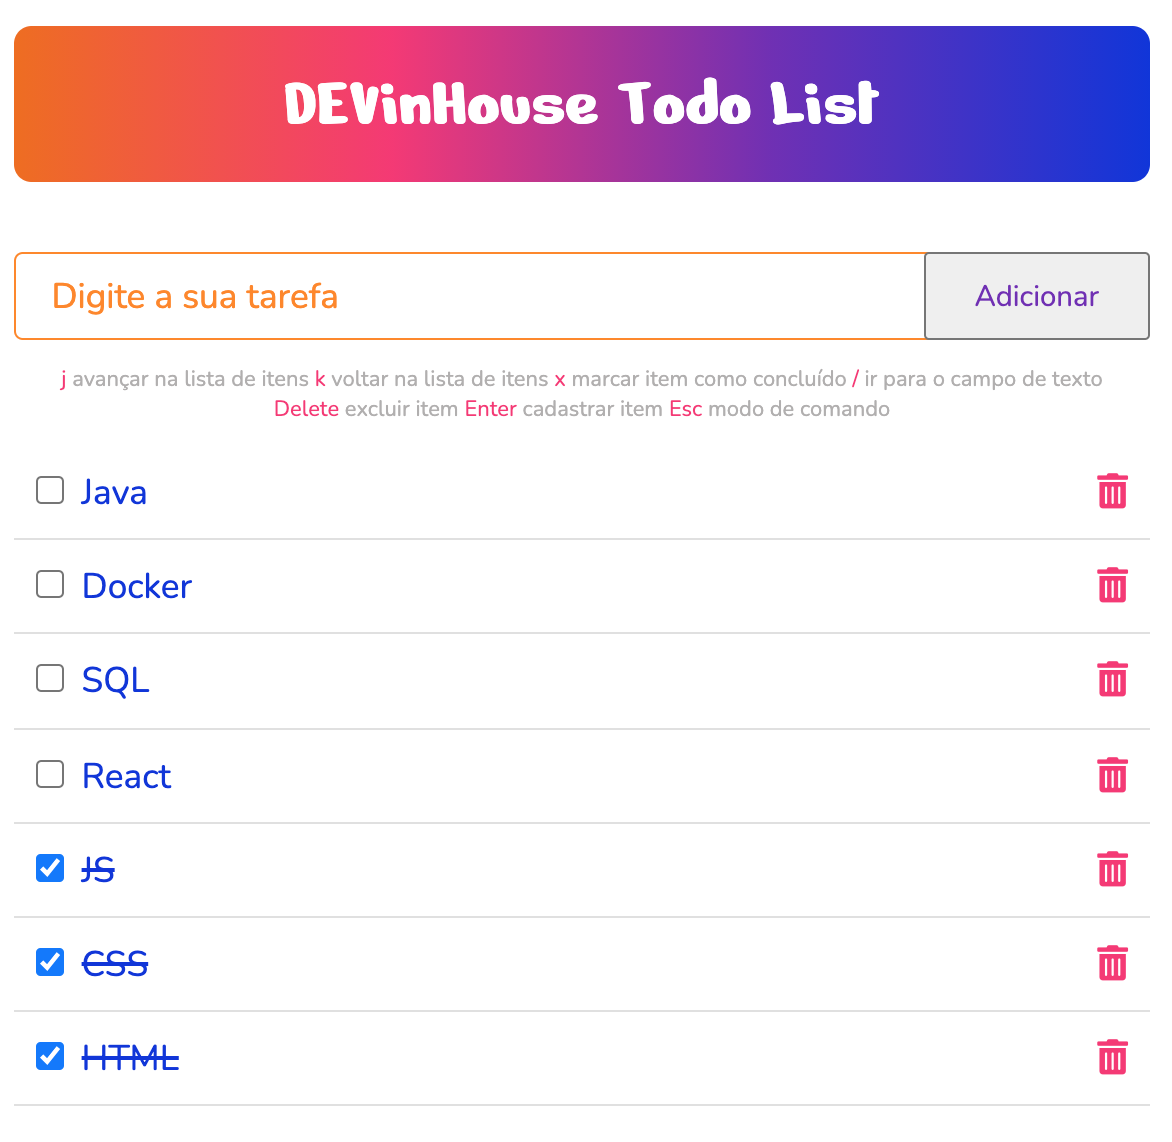
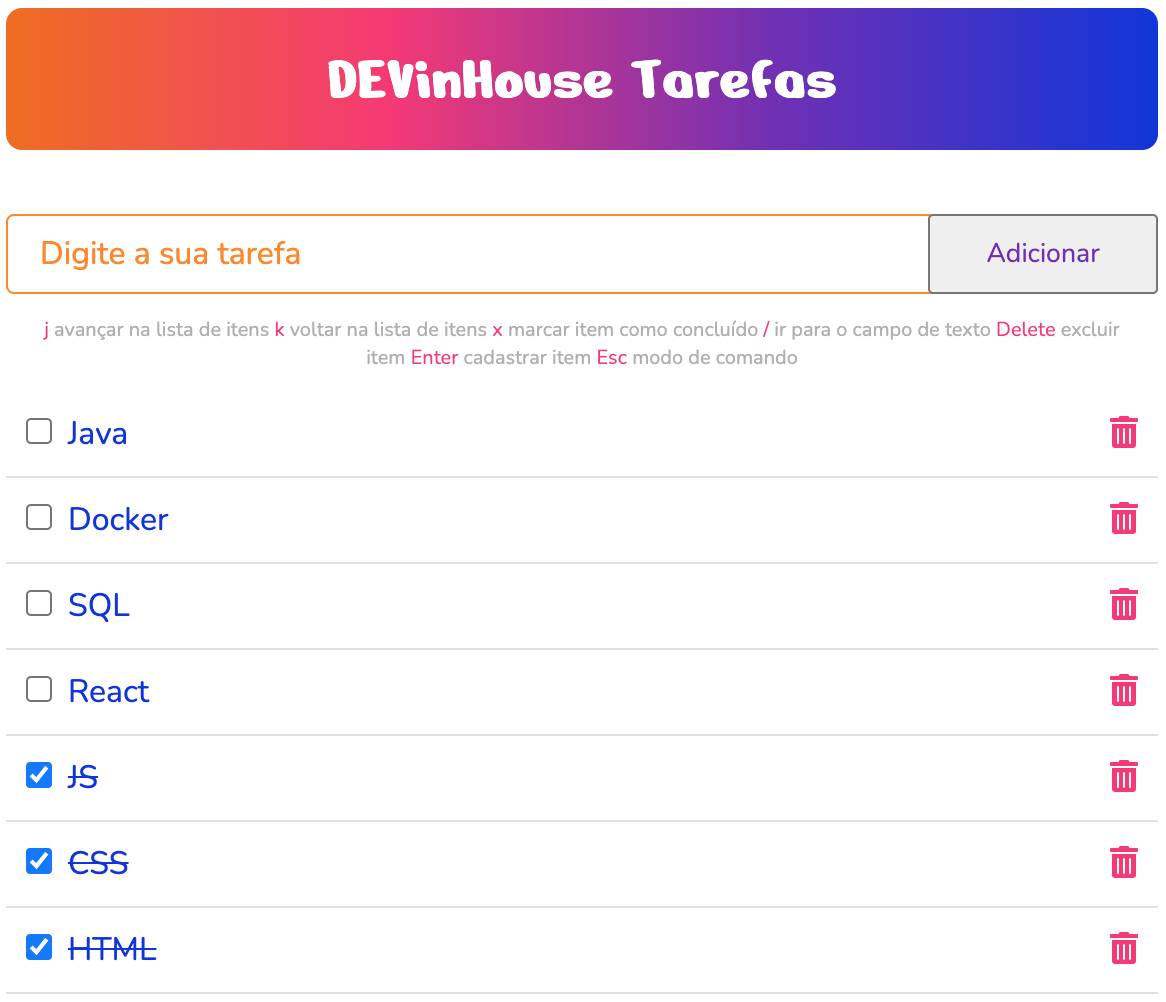
Refactoring de código e ajuste layout.

diff --git a/Projeto01/js/script.js b/Projeto01/js/script.js
@@ -12,20 +12,20 @@
         }
 
         if (event.key == "/") {
-            document.getElementById("todo").focus();
-        } if (event.key == "Enter") {
-            adicionarItem();
-        } else if (event.key == "j" && !(document.activeElement === document.getElementById('todo'))) {
+            document.getElementById("tarefa").focus();
+        } if (event.key == "Enter" && (document.activeElement === document.getElementById('tarefa'))) {
+            adicionarTarefa();
+        } else if (event.key == "j" && !(document.activeElement === document.getElementById('tarefa'))) {
             navegar(1);
-        } else if (event.key == "k" && !(document.activeElement === document.getElementById('todo'))) {
+        } else if (event.key == "k" && !(document.activeElement === document.getElementById('tarefa'))) {
             navegar(-1);
-        } else if (event.key == "Delete" && !(document.activeElement === document.getElementById('todo'))) {
-            excluirItemAtalho();
-        } else if (event.key == "x" && !(document.activeElement === document.getElementById('todo'))) {
-            concluirItemAtalho();
+        } else if (event.key == "Delete" && !(document.activeElement === document.getElementById('tarefa'))) {
+            excluirTarefaAtalho();
+        } else if (event.key == "x" && !(document.activeElement === document.getElementById('tarefa'))) {
+            concluirTarefaAtalho();
         } else if (event.key == "Escape") {
-            document.getElementById("todo").value = "";
-            document.getElementById("todo").blur();
+            document.getElementById("tarefa").value = "";
+            document.getElementById("tarefa").blur();
         } else {
             return;
         }
@@ -34,35 +34,35 @@
     }, true);
 
     adicionar.addEventListener("click", function () {
-        adicionarItem();
+        adicionarTarefa();
     });
 
-    let adicionarItem = function () {
-        let itens = new Array();
-        let item = document.getElementById("todo").value;
+    let adicionarTarefa = function () {
+        let tarefas = new Array();
+        let tarefa = document.getElementById("tarefa").value.trim();
 
-        if (localStorage.hasOwnProperty("itens")) {
-            itens = JSON.parse(localStorage.getItem("itens"));
+        if (localStorage.hasOwnProperty("tarefas")) {
+            tarefas = JSON.parse(localStorage.getItem("tarefas"));
         }
 
-        if (validarAdicionarItem(itens, item)) {
+        if (validarAdicionarTarefa(tarefas, tarefa)) {
 
-            document.getElementById("todo").value = "";
-            itens.push({ "nome": item, "concluido": false, "selecionado": false });
+            document.getElementById("tarefa").value = "";
+            tarefas.push({ "nome": tarefa, "concluido": false, "selecionado": false });
 
-            salvarLista(itens, carregarLista);
+            salvarLista(tarefas, carregarLista);
         }
     }
 
-    let validarAdicionarItem = function (itens, item) {
+    let validarAdicionarTarefa = function (tarefas, tarefa) {
 
-        if (item.length === 0) {
-            alert("O nome do item não pode ser vazio.");
+        if (tarefa.length === 0) {
+            alert("O nome da tarefa não pode ser vazio.");
             return false;
         }
 
-        if (itens.some(e => e.nome.toLowerCase() === item.toLowerCase())) {
-            alert("O item já está cadastrado na sua lista.");
+        if (tarefas.some(e => e.nome.toLowerCase() === tarefa.toLowerCase())) {
+            alert("A tarefa já está cadastrada na sua lista.");
             return false;
         }
 
@@ -70,150 +70,150 @@
     }
 
     let carregarLista = function () {
-        let itens = new Array();
+        let tarefas = new Array();
 
-        if (localStorage.hasOwnProperty("itens")) {
-            itens = JSON.parse(localStorage.getItem("itens"));
+        if (localStorage.hasOwnProperty("tarefas")) {
+            tarefas = JSON.parse(localStorage.getItem("tarefas"));
         }
 
-        montarLista(itens);
+        montarLista(tarefas);
     }
 
-    let montarLista = function (itens) {
+    let montarLista = function (tarefas) {
         let listaTarefas = document.querySelector(".lista-tarefas");
         listaTarefas.innerHTML = "";
         let ul = document.createElement("ul");
 
-        itens.forEach(function (item, i) {
+        tarefas.forEach(function (tarefa, i) {
 
-            let id = "item-" + i;
-            let nome = item.nome;
+            let id = "tarefa-" + i;
+            let nome = tarefa.nome;
 
             let checkbox = document.createElement("input");
             checkbox.id = id;
             checkbox.type = "checkbox";
-            checkbox.checked = item.concluido;
+            checkbox.checked = tarefa.concluido;
             checkbox.addEventListener("click", function () {
-                concluirItem(nome);
+                concluirTarefa(nome);
             });
 
             let label = document.createElement("label");
             label.innerHTML = nome;
             label.setAttribute("for", id);
 
-            let divItem = document.createElement("div");
-            divItem.appendChild(checkbox);
-            divItem.appendChild(label);
+            let divTarefa = document.createElement("div");
+            divTarefa.appendChild(checkbox);
+            divTarefa.appendChild(label);
 
             let iconeExcluir = document.createElement("i");
-            iconeExcluir.classList.add("fas", "fa-trash-alt", "excluirItem");
+            iconeExcluir.classList.add("fas", "fa-trash-alt");
             iconeExcluir.addEventListener("click", function () {
-                excluirItem(nome);
+                excluirTarefa(nome);
             });
 
             let divIcone = document.createElement("div");
             divIcone.appendChild(iconeExcluir);
 
             let li = document.createElement("li");
-            if (item.selecionado) {
+            if (tarefa.selecionado) {
                 li.classList.add("selecionado");
             }
-            li.appendChild(divItem);
+            li.appendChild(divTarefa);
             li.appendChild(divIcone);
 
             ul.appendChild(li);
         });
 
-        if (itens.length > 0) {
+        if (tarefas.length > 0) {
             listaTarefas.appendChild(ul);
         } else {
             let listaVazia = document.createElement("h4");
-            listaVazia.innerHTML = "Nenhum item adicionado a sua lista.";
+            listaVazia.innerHTML = "Nenhuma tarefa adicionada a sua lista.";
             listaTarefas.appendChild(listaVazia);
         }
     }
 
-    let salvarLista = function (itens, callback) {
+    let salvarLista = function (tarefas, callback) {
 
-        itens.sort((a, b) => (a.concluido > b.concluido) ? 1 : ((b.concluido > a.concluido) ? -1 : 0));
-        localStorage.setItem("itens", JSON.stringify(itens));
+        tarefas.sort((a, b) => (a.concluido > b.concluido) ? 1 : ((b.concluido > a.concluido) ? -1 : 0));
+        localStorage.setItem("tarefas", JSON.stringify(tarefas));
 
         if (callback) {
             callback();
         }
     }
 
-    let excluirItem = function (item) {
+    let excluirTarefa = function (tarefa) {
 
-        let itens = JSON.parse(localStorage.getItem("itens"));
-        let itemExcluir = itens.findIndex(x => x.nome == item);
+        let tarefas = JSON.parse(localStorage.getItem("tarefas"));
+        let tarefaExcluir = tarefas.findIndex(x => x.nome == tarefa);
 
-        let confirmaExclusao = confirm(`Deseja realmente excluir o item ${item}?`);
+        let confirmaExclusao = confirm(`Deseja realmente excluir a tarefa "${tarefa}"?`);
         if (confirmaExclusao) {
-            itens.splice(itemExcluir, 1);
+            tarefas.splice(tarefaExcluir, 1);
         }
 
-        salvarLista(itens, carregarLista);
+        salvarLista(tarefas, carregarLista);
     }
 
-    let excluirItemAtalho = function () {
+    let excluirTarefaAtalho = function () {
 
-        let itens = JSON.parse(localStorage.getItem("itens"));
-        let itemExcluir = itens.find(x => x.selecionado == true);
+        let tarefas = JSON.parse(localStorage.getItem("tarefas"));
+        let tarefaExcluir = tarefas.find(x => x.selecionado == true);
 
-        if (itemExcluir) {
-            excluirItem(itemExcluir.nome);
+        if (tarefaExcluir) {
+            excluirTarefa(tarefaExcluir.nome);
         }
     }
 
-    let concluirItem = function (item) {
+    let concluirTarefa = function (tarefa) {
 
-        let itens = JSON.parse(localStorage.getItem("itens"));
-        let itemConcluir = itens.findIndex(x => x.nome == item);
+        let tarefas = JSON.parse(localStorage.getItem("tarefas"));
+        let tarefaConcluir = tarefas.findIndex(x => x.nome == tarefa);
 
-        itens[itemConcluir].concluido = !itens[itemConcluir].concluido;
+        tarefas[tarefaConcluir].concluido = !tarefas[tarefaConcluir].concluido;
 
-        salvarLista(itens, carregarLista);
+        salvarLista(tarefas, carregarLista);
     }
 
-    let concluirItemAtalho = function () {
+    let concluirTarefaAtalho = function () {
 
-        let itens = JSON.parse(localStorage.getItem("itens"));
-        let itemConcluir = itens.find(x => x.selecionado == true);
+        let tarefas = JSON.parse(localStorage.getItem("tarefas"));
+        let tarefaConcluir = tarefas.find(x => x.selecionado == true);
 
-        if (itemConcluir) {
-            concluirItem(itemConcluir.nome);
+        if (tarefaConcluir) {
+            concluirTarefa(tarefaConcluir.nome);
         }
     }
 
     let navegar = function (direcao) {
 
-        let itens = JSON.parse(localStorage.getItem("itens"));
-        let itemSelecionar = itens.findIndex(x => x.selecionado == true);
+        let tarefas = JSON.parse(localStorage.getItem("tarefas"));
+        let tarefaSelecionar = tarefas.findIndex(x => x.selecionado == true);
 
-        itens.forEach(function (item, i) {
-            item.selecionado = false;
+        tarefas.forEach(function (tarefa, i) {
+            tarefa.selecionado = false;
         });
 
-        if (itemSelecionar <= 0 && direcao < 0) {
-            itens[0].selecionado = true;
-        } else if (itemSelecionar == (itens.length - 1) && direcao > 0) {
-            itens[itens.length - 1].selecionado = true;
+        if (tarefaSelecionar <= 0 && direcao < 0) {
+            tarefas[0].selecionado = true;
+        } else if (tarefaSelecionar == (tarefas.length - 1) && direcao > 0) {
+            tarefas[tarefas.length - 1].selecionado = true;
         } else {
-            itens[itemSelecionar + direcao].selecionado = true;
+            tarefas[tarefaSelecionar + direcao].selecionado = true;
         }
 
-        let proximoSelecionar = itens.findIndex(x => x.selecionado == true);
+        let proximoSelecionar = tarefas.findIndex(x => x.selecionado == true);
 
         let limpaSelecao = document.querySelectorAll(".lista-tarefas ul li");
-        limpaSelecao.forEach(function (item) {
-            item.classList.remove("selecionado");
+        limpaSelecao.forEach(function (tarefa) {
+            tarefa.classList.remove("selecionado");
         });
 
         let listaTarefas = document.querySelector(`.lista-tarefas ul li:nth-child(${proximoSelecionar + 1})`);
         listaTarefas.classList.add("selecionado");
 
-        salvarLista(itens);
+        salvarLista(tarefas);
     }
 
 })();

diff --git a/Projeto01/index.html b/Projeto01/index.html
@@ -6,17 +6,17 @@
     <meta name="viewport" content="width=device-width, initial-scale=1.0">
     <link rel="icon" type="image/png" href="./img/favicon/favicon.png">
     <link rel="stylesheet" href="./css/style.min.css">
-    <title>DEVinHouse Todo List</title>
+    <title>DEVinHouse Tarefas</title>
     <script defer src="./js/script.js"></script>
 </head>
 
 <body>
     <main>
         <header>
-            <h1>DEVinHouse Todo List</h1>
+            <h1>DEVinHouse Tarefas</h1>
         </header>
         <div class="form">
-            <input id="todo" type="text" placeholder="Digite a sua tarefa">
+            <input id="tarefa" type="text" placeholder="Digite a sua tarefa">
             <button id="adicionar">Adicionar</button>
         </div>
         <div class="atalhos">
